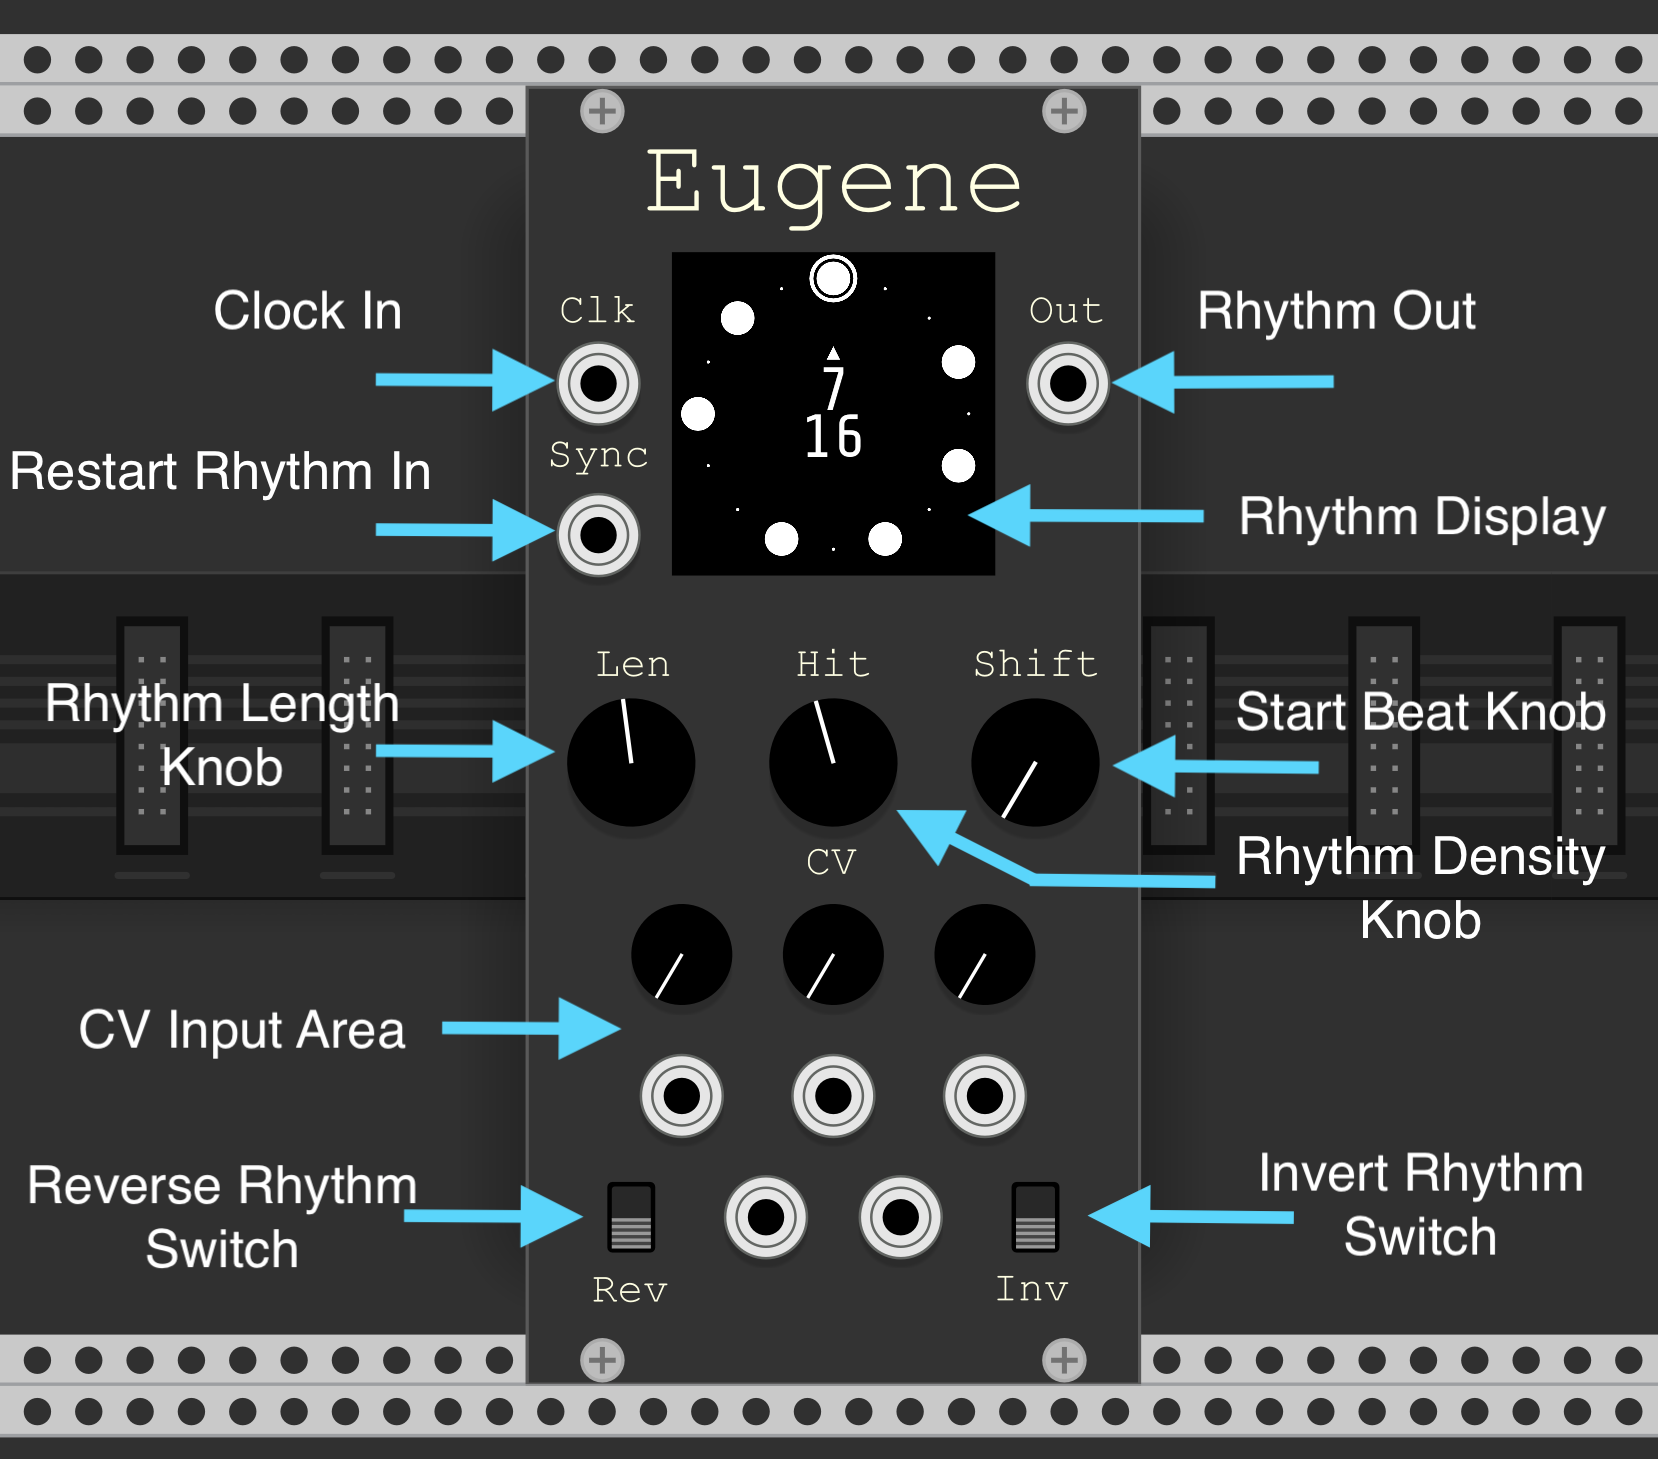
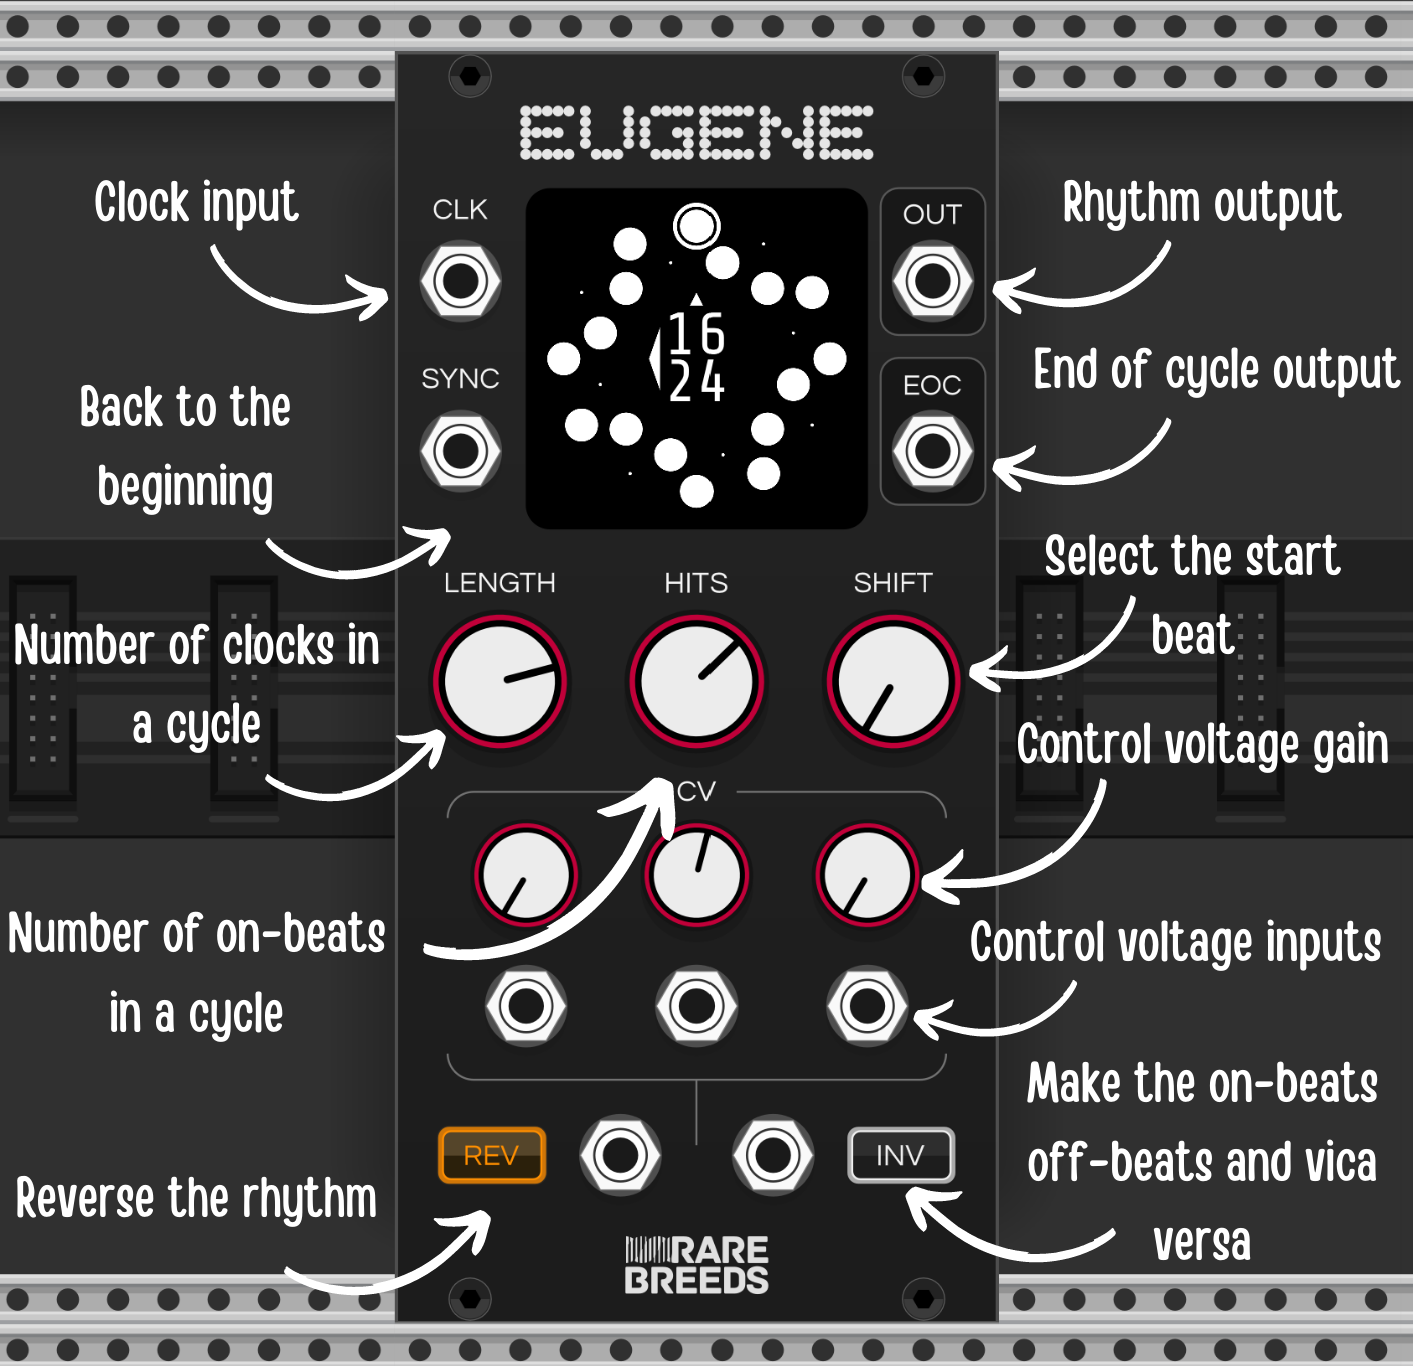
Update manual pictures

diff --git a/manual/docs/index.md b/manual/docs/index.md
@@ -40,18 +40,18 @@ A pulse is output when an on-beat (hit) is clocked.
 #### Since v2.0.0
 When the output is lowered depends on the beat mode. There's 3 behaviour options available when right clicking the module:
 
-- Pulse - A 1ms pulse is output on each on-beat
+- Pulse - A 1ms pulse is output on each on-beat (default)
 - Gate - The output is raised on each on-beat and lowered on each off-beat, the output is retriggered for successive on-beats
 - Hold - The output is raised on each on-beat and lowered on each off-beat, the output is held high for successive on-beats
 
-### EOC : Output yes
+### EOC : Output
 A pulse is output when a new cycle starts.
 
 There's 3 behaviour options available when right clicking the module:
 
-- On Repeat - On the first beat of the new cycle, only if a cycle has been completed.
-- First - On the first beat of the cycle, even if a cycle hasn't been completed.
-- Last - On the last beat of the cycle.
+- On Repeat - On the first beat of the new cycle, only if a cycle has been completed (default)
+- First - On the first beat of the cycle, even if a cycle hasn't been completed
+- Last - On the last beat of the cycle
 
 0-10V Unipolar CV 1ms pulse duration.
 
@@ -83,11 +83,13 @@ Inverts the Euclidean algorithm. When this switch is on on-beats become off-beat
 ### CV : Input
 All manually controlled inputs are also CV controllable.
 
-Len, Hits and Shift have +-5V bipolar CV inputs with a knob for adjusting CV gain. The CV is summed with the current knob setting.
+Length, Hits and Shift have +-5V bipolar CV inputs with a knob for adjusting CV gain. The gain knob ranges from 0 to 1. After gain is applied to the control voltage input it is summed with the current knob setting.
+
+<code>
+parameter value = knob value + (control voltage input X control voltage gain knob)
+</code>
 
 Reverse and Invert have Schmitt triggered CV inputs that override the switch settings.
-
-![CV](img/cv.png)
 
 ## Polygene
 
@@ -197,7 +199,7 @@ The number of output channels matches the number of channels active on the clock
 #### Since v2.0.0
 When the output is lowered depends on the beat mode. There's 3 behaviour options available when right clicking the module:
 
-- Pulse - A 1ms pulse is output on each on-beat
+- Pulse - A 1ms pulse is output on each on-beat (default)
 - Gate - The output is raised on each on-beat and lowered on each off-beat, the output is retriggered for successive on-beats
 - Hold - The output is raised on each on-beat and lowered on each off-beat, the output is held high for successive on-beats
 
@@ -208,8 +210,8 @@ The number of output channels matches the number of channels active on the clock
 
 There's 3 behaviour options available when right clicking the module:
 
-- On Repeat - On the first beat of the new cycle, only if a cycle has been completed.
-- First - On the first beat of the cycle, even if a cycle hasn't been completed.
-- Last - On the last beat of the cycle.
+- On Repeat - On the first beat of the new cycle, only if a cycle has been completed (default)
+- First - On the first beat of the cycle, even if a cycle hasn't been completed
+- Last - On the last beat of the cycle
 
 0-10V Unipolar CV 1ms pulse duration.
